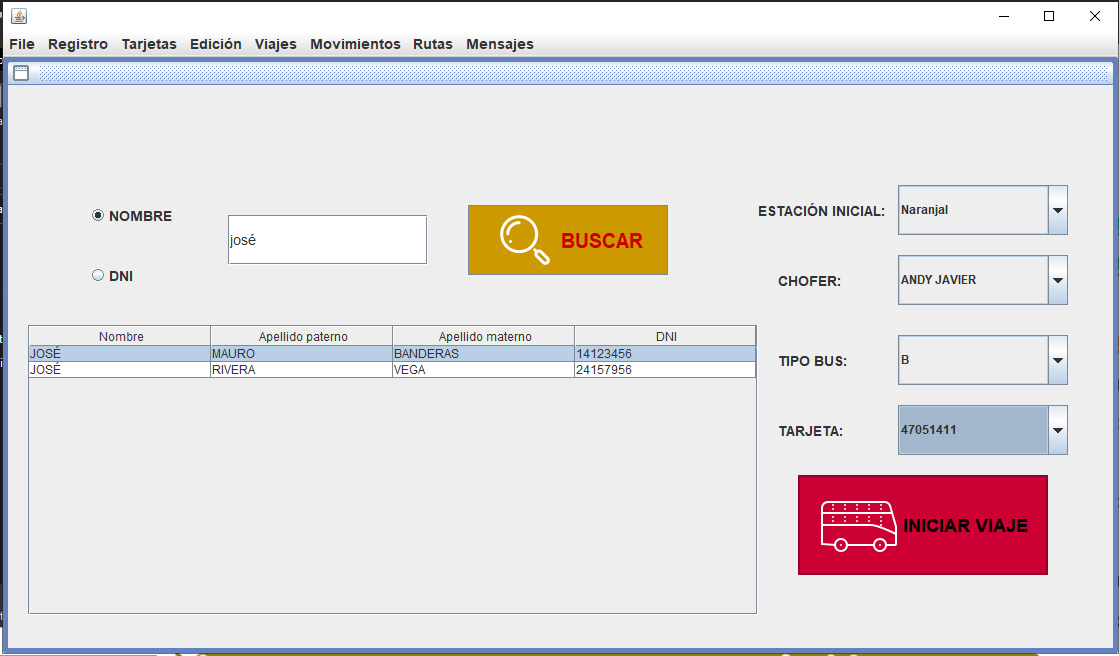
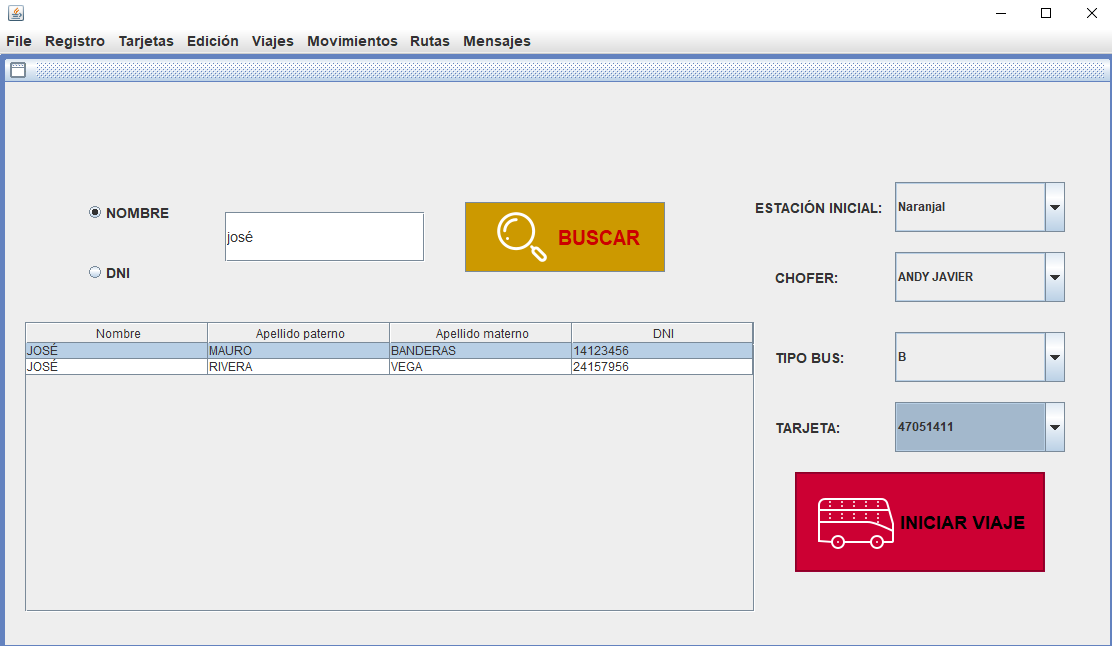
commit

diff --git a/README.md b/README.md
@@ -1,72 +1,81 @@
-# **ProyectoMetropolitano**
+# **Sistema Metropolitano**
+
+|Licencia|Lenguaje|
+|:--:|:--:|
+|[![License](https://img.shields.io/badge/License-MIT-red.svg)](https://opensource.org/licenses/MIT)|[![Lenguaje](https://img.shields.io/badge/Language-java-blue.svg)](https://dev.java/learn/getting-started-with-java/)
 
 Ciclo IV 2019 - UNMSM - Proyecto final del curso "Algorítmica y Programación Orientada a Objetos"
 
-## Funcionalidades
+## Descripción
 
-El presente proyecto está basado en las funcionalidades para los usuarios que ofrece la aplicación móvil del Metropolitano, el cual se puede descargar gratuitamente desde la "Play Store" para dispositivos móviles Android.
+El presente proyecto está basado en las funcionalidades para los usuarios que ofrece la aplicación móvil del Metropolitano, el cual se puede descargar gratuitamente desde la "Play Store" para dispositivos móviles Android. Y para la persistencia de datos se utilizaron archivos.
+
 
 ## Capturas
 
 <p align="center">
-  <img src="https://github.com/anthonyquispev/ProyectoMetropolitano/blob/master/capturas/Ventana_Principal.PNG" width="400px" heigh="400px">
+  <img src="https://github.com/anthonyquispev/ProyectoMetropolitano/blob/master/capturas/Ventana_Principal.PNG">
 </p>
 <p align="center">
-  <img src="https://github.com/anthonyquispev/ProyectoMetropolitano/blob/master/capturas/Cliente_Recargas1.PNG" width="300px" heigh="450px">
+  <img src="https://github.com/anthonyquispev/ProyectoMetropolitano/blob/master/capturas/Cliente_Recargas1.PNG">
 </p>
 <p align="center">
-  <img src="https://github.com/anthonyquispev/ProyectoMetropolitano/blob/master/capturas/Cliente_Viajes.PNG" width="300px" heigh="450px">
+  <img src="https://github.com/anthonyquispev/ProyectoMetropolitano/blob/master/capturas/Cliente_Viajes.PNG">
 </p>
 <p align="center">
-  <img src="https://github.com/anthonyquispev/ProyectoMetropolitano/blob/master/capturas/Cliente_RecargaVirtual.PNG" width="300px" heigh="450px">
+  <img src="https://github.com/anthonyquispev/ProyectoMetropolitano/blob/master/capturas/Cliente_RecargaVirtual.PNG">
 </p>
 <p align="center">
-  <img src="https://github.com/anthonyquispev/ProyectoMetropolitano/blob/master/capturas/Cliente_HorariosBuses.PNG" width="300px" heigh="450px">
+  <img src="https://github.com/anthonyquispev/ProyectoMetropolitano/blob/master/capturas/Cliente_HorariosBuses.PNG">
 </p>
 <p align="center">
-  <img src="https://github.com/anthonyquispev/ProyectoMetropolitano/blob/master/capturas/Cliente_BusesDisponibles.PNG" width="300px" heigh="450px">
+  <img src="https://github.com/anthonyquispev/ProyectoMetropolitano/blob/master/capturas/Cliente_BusesDisponibles.PNG">
 </p>
 <p align="center">
-  <img src="https://github.com/anthonyquispev/ProyectoMetropolitano/blob/master/capturas/Cliente_EnviarMensaje.PNG" width="300px" heigh="450px">
+  <img src="https://github.com/anthonyquispev/ProyectoMetropolitano/blob/master/capturas/Cliente_EnviarMensaje.PNG">
 </p>
 <p align="center">
-  <img src="https://github.com/anthonyquispev/ProyectoMetropolitano/blob/master/capturas/Cliente_LeerMensajes2.PNG" width="300px" heigh="450px">
+  <img src="https://github.com/anthonyquispev/ProyectoMetropolitano/blob/master/capturas/Cliente_LeerMensajes2.PNG">
 </p>
 <p align="center">
-  <img src="https://github.com/anthonyquispev/ProyectoMetropolitano/blob/master/capturas/Admin_EditarCliente1.PNG" width="600px" heigh="400px">
+  <img src="https://github.com/anthonyquispev/ProyectoMetropolitano/blob/master/capturas/Admin_EditarCliente1.PNG">
 </p>
 <p align="center">
-  <img src="https://github.com/anthonyquispev/ProyectoMetropolitano/blob/master/capturas/Admin_EmitirTarjeta.PNG" width="600px" heigh="400px">
+  <img src="https://github.com/anthonyquispev/ProyectoMetropolitano/blob/master/capturas/Admin_EmitirTarjeta.PNG">
 </p>
 <p align="center">
-  <img src="https://github.com/anthonyquispev/ProyectoMetropolitano/blob/master/capturas/Admin_RecargaEstacion.PNG" width="600px" heigh="400px">
+  <img src="https://github.com/anthonyquispev/ProyectoMetropolitano/blob/master/capturas/Admin_RecargaEstacion.PNG">
 </p>
 <p align="center">
-  <img src="https://github.com/anthonyquispev/ProyectoMetropolitano/blob/master/capturas/Admin_RegistroCliente6.PNG" width="600px" heigh="400px">
+  <img src="https://github.com/anthonyquispev/ProyectoMetropolitano/blob/master/capturas/Admin_RegistroCliente6.PNG">
 </p>
 <p align="center">
-  <img src="https://github.com/anthonyquispev/ProyectoMetropolitano/blob/master/capturas/Admin_MovimientosViajes.PNG" width="600px" heigh="400px">
+  <img src="https://github.com/anthonyquispev/ProyectoMetropolitano/blob/master/capturas/Admin_MovimientosViajes.PNG">
 </p>
 <p align="center">
-  <img src="https://github.com/anthonyquispev/ProyectoMetropolitano/blob/master/capturas/Admin_IniciarViaje1.PNG" width="600px" heigh="400px">
+  <img src="https://github.com/anthonyquispev/ProyectoMetropolitano/blob/master/capturas/Admin_IniciarViaje1.PNG">
 </p>
 <p align="center">
-  <img src="https://github.com/anthonyquispev/ProyectoMetropolitano/blob/master/capturas/Admin_MostrarViajes.PNG" width="600px" heigh="400px">
+  <img src="https://github.com/anthonyquispev/ProyectoMetropolitano/blob/master/capturas/Admin_MostrarViajes.PNG">
 </p>
 <p align="center">
-  <img src="https://github.com/anthonyquispev/ProyectoMetropolitano/blob/master/capturas/Admin_FinalizarViaje1.PNG" width="600px" heigh="400px">
+  <img src="https://github.com/anthonyquispev/ProyectoMetropolitano/blob/master/capturas/Admin_FinalizarViaje1.PNG">
 </p>
 <p align="center">
-  <img src="https://github.com/anthonyquispev/ProyectoMetropolitano/blob/master/capturas/Admin_ResponderMensajes.PNG" width="600px" heigh="400px">
+  <img src="https://github.com/anthonyquispev/ProyectoMetropolitano/blob/master/capturas/Admin_ResponderMensajes.PNG">
 </p>
 <p align="center">
-  <img src="https://github.com/anthonyquispev/ProyectoMetropolitano/blob/master/capturas/Admin_Rutas.PNG" width="600px" heigh="400px">
+  <img src="https://github.com/anthonyquispev/ProyectoMetropolitano/blob/master/capturas/Admin_Rutas.PNG">
 </p>
+
 
 ## Profesor
+
 * Zavaleta Campos, Jorge Luis
 
+
 ## Integrantes
+
 * Lizarazo Huancahuire, Álex Pedro
 * Quispe Vega, Anthony Yair
 * Tonconi Laura, Daniel William
